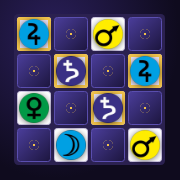
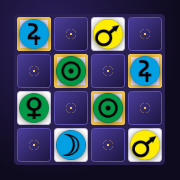
Sin Saturno; añade Luna amarilla y Sol verde (20 discos)
Claude-Session: https://claude.ai/code/session_014ZQiZjyMwsdvgzTr8z8YUo

Changed region(s): [[0.5, 0.5, 0.6944, 0.6944], [0.3056, 0.3056, 0.5, 0.5]]

diff --git a/index.html b/index.html
@@ -53,7 +53,6 @@ button:hover{filter:brightness(1.15)}button:disabled{opacity:.5;cursor:default}
 body.embed h1,body.embed .hint,body.embed .nav{display:none}
 @media (prefers-reduced-motion:no-preference){.cell,.slot{transition:background .12s}}
 
[4 lines of base64/hex data omitted]
@@ -72,6 +71,8 @@ body.embed h1,body.embed .hint,body.embed .nav{display:none}
[5 lines of base64/hex data omitted]
 
 .tablero{display:grid;grid-template-columns:repeat(4,var(--cs));gap:var(--g);justify-content:center;--cs:min(19.5vw,100px);--g:8px;padding:var(--g);background:#2b2150;border-radius:12px;width:max-content;margin:0 auto;box-shadow:0 10px 30px #0008;user-select:none}
 .carta{width:var(--cs);height:var(--cs);padding:0;border:0;background:none;border-radius:10px;perspective:600px;cursor:pointer}
@@ -119,7 +120,7 @@ body.embed h1,body.embed .hint,body.embed .nav{display:none}
 const $=id=>document.getElementById(id);
 const PL=['Júpiter','Marte','Venus','Mercurio'],CO=['azul','rosa','amarillo','verde'];
 const PO=[];for(let i=1;i<=16;i++)PO.push({c:'u'+i,n:PL[(i-1)>>2]+' '+CO[(i-1)&3],pl:(i-1)>>2,co:(i-1)&3});
-PO.push({c:'s5',n:'Saturno violeta',pl:4,co:4},{c:'t5',n:'Luna azul',pl:5,co:0},{c:'t6',n:'Sol rosa',pl:6,co:1});
+PO.push({c:'t5',n:'Luna azul',pl:4,co:0},{c:'t6',n:'Sol rosa',pl:5,co:1},{c:'t12',n:'Luna amarilla',pl:4,co:2},{c:'t11',n:'Sol verde',pl:5,co:3});
 const MODOS={facil:{pares:8,tipo:'igual',t:'Fácil'},medio:{pares:12,tipo:'igual',t:'Medio'},dificil:{pares:16,tipo:'igual',t:'Difícil'},planeta:{pares:8,tipo:'planeta',t:'Por planeta'},color:{pares:8,tipo:'color',t:'Por color'}};
 const AYUDA={igual:'Toca dos cartas para darles la vuelta: si son el mismo disco, se quedan; si no, se vuelven a tapar. Gana quien encuentra todas las parejas con menos intentos. El tiempo empieza al dar la vuelta a la primera carta.',
   planeta:'Los 16 discos de colores boca abajo. Hay que emparejar por planeta, aunque el color sea distinto: cada planeta aparece cuatro veces, así que formarás dos parejas de cada uno.',
